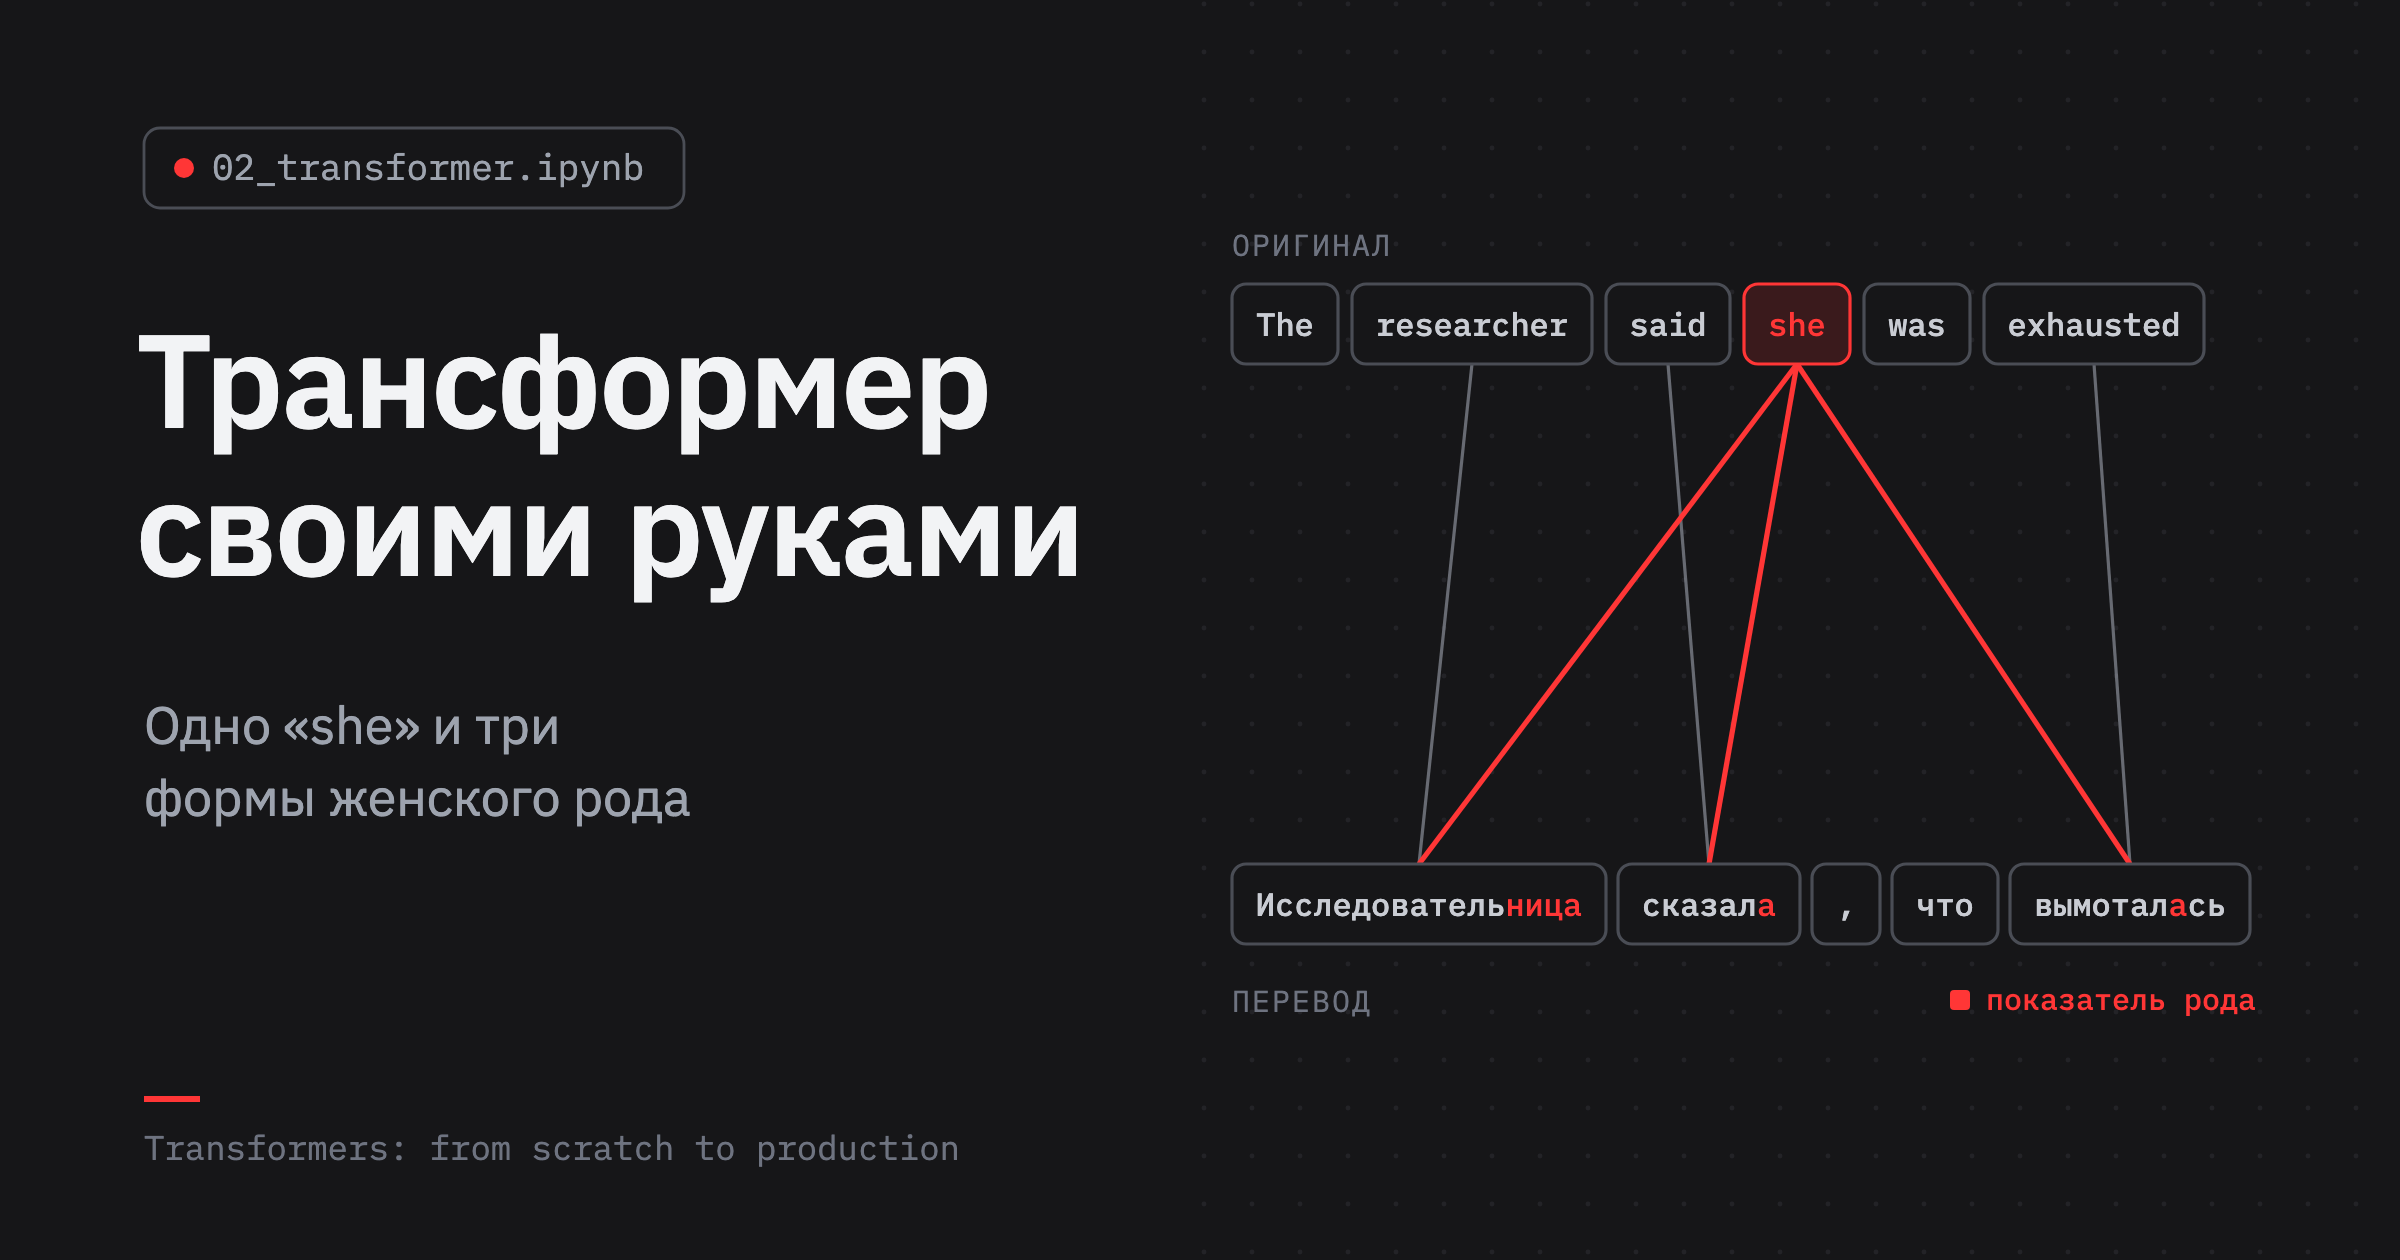
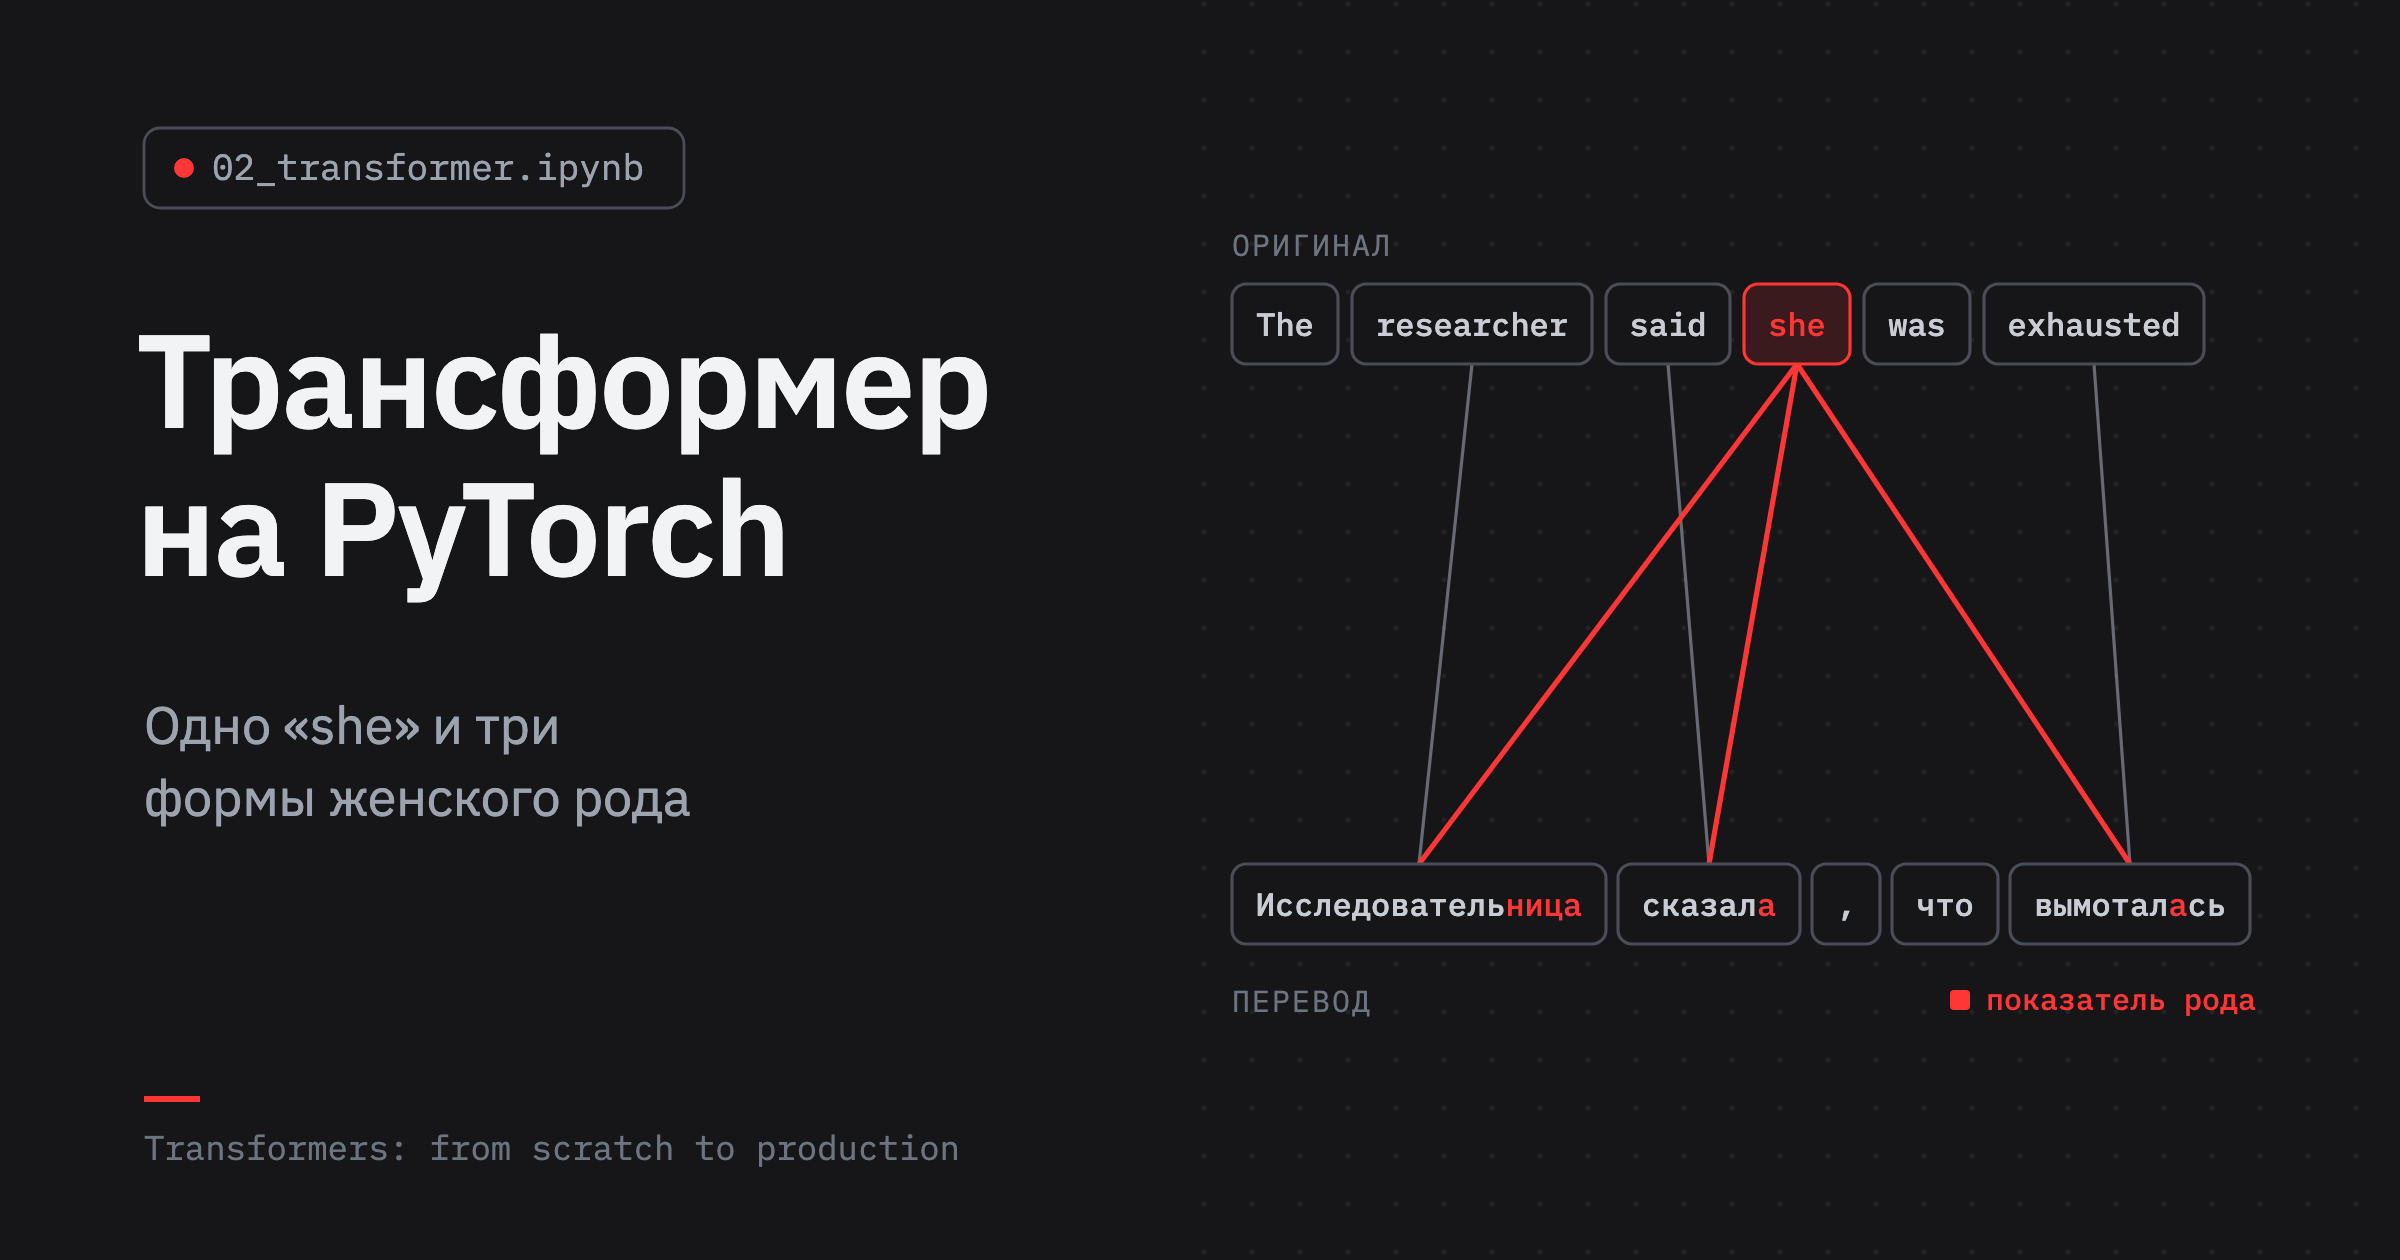
retitle lessons 2 and 3: Implementing the Transformer in PyTorch; Training a Transformer
The old titles were the generated-sounding patterns the style guide names ('the Transformer, built by hand',
'from parrot to translator'). New covers: lesson 2's title, lesson 3's hook from the lesson's own opening.

Changed region(s): [[0.0625, 0.3714, 0.4688, 0.4952]]

diff --git a/lessons/03_training/lesson.py b/lessons/03_training/lesson.py
@@ -1,5 +1,5 @@
 # %% [markdown]
-# # Lesson 3. From parrot to translator: training and decoding
+# # Lesson 3. Training a Transformer: warm-up, label smoothing, beam search, sampling
 #
 # Ask a chatbot the same question twice and you may get two different answers. Ask a translation model twice and
 # you get the same translation both times. The networks inside are close relatives, so the difference isn't in the
@@ -24,7 +24,7 @@
 # 1. Turn half a million pairs into batches that waste little on padding.
 # 2. Build the training step: label smoothing, Adam with the paper's learning-rate schedule, gradient clipping,
 #    mixed precision. See what warm-up is for by training without it.
-# 3. Train the lesson 2 Transformer and watch it go from parrot to translator, epoch by epoch.
+# 3. Train the lesson 2 Transformer and read its translations epoch by epoch.
 # 4. Decode three ways: greedy, beam search and sampling.
 # 5. Look inside: does *сказала* now look at *she*? And put our model next to opus-mt-en-ru.
 #

diff --git a/lessons/02_transformer/figures.py b/lessons/02_transformer/figures.py
@@ -519,7 +519,7 @@ COVER = {
         tgt=[("Issledovatel'", "nitsa", ""), ("skazal", "a", ""), (",", "", ""), ("chto", "", ""), ("vymotal", "a", "s'")],
         size=15,
         tlabel="RUSSIAN, TRANSLITERATED",
-        title=["The Transformer,", "built by hand"],
+        title=["The Transformer", "in PyTorch"],
         hook=["One «she», three feminine", "forms in Russian"],
         legend="feminine marker",
         source="SOURCE",
@@ -528,7 +528,7 @@ COVER = {
         tgt=[("Исследователь", "ница", ""), ("сказал", "а", ""), (",", "", ""), ("что", "", ""), ("вымотал", "а", "сь")],
         size=16,
         tlabel="ПЕРЕВОД",
-        title=["Трансформер", "своими руками"],
+        title=["Трансформер", "на PyTorch"],
         hook=["Одно «she» и три", "формы женского рода"],
         legend="показатель рода",
         source="ОРИГИНАЛ",

diff --git a/lessons/03_training/figures.py b/lessons/03_training/figures.py
@@ -414,7 +414,7 @@ def _cover(lang):
         cv.fits(cv.MOTIF_X0 + 110 + w)
         out.append(chip)
     title = ["Training and", "decoding"] if english else ["Обучение и", "декодирование"]
-    hook = ["From a parrot", "to a translator"] if english else ["От попугая", "к переводчику"]
+    hook = ["Why translators search", "and chatbots sample"] if english else ["Почему переводчики ищут,", "а чат-боты сэмплируют"]
     return cv.frame("03_training.ipynb", title, hook, "".join(out))
 
 

diff --git a/lessons/02_transformer/lesson.py b/lessons/02_transformer/lesson.py
@@ -1,5 +1,5 @@
 # %% [markdown]
-# # Lesson 2. The Transformer, built by hand
+# # Lesson 2. Implementing the Transformer in PyTorch: why attention divides by √d_k
 #
 # GPT-4o, Llama 3 and DeepSeek-V3 come from different companies, learned from different data and differ in size by
 # orders of magnitude. Open any of them and you find the same thing: one block, stacked. Here are four real models
